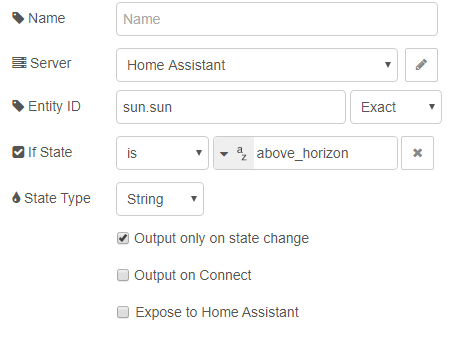
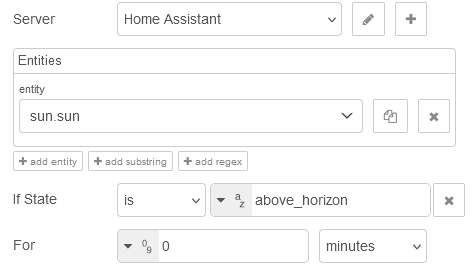
docs: Update first automation to use action node

diff --git a/docs/guide/first-automation.md b/docs/guide/first-automation.md
@@ -1,67 +1,56 @@
 # First Automation
 
-For your first automation, we'll start simple and set up an automation to turn on and off a
-light when the sun comes up and goes down.
+For your first automation, let's keep it simple by setting up a light to turn on when the sun sets and off when it rises.
 
-This example will use the state, `below_horizon`/`above_horizon`, of the `sun.sun` entity from
-Home Assistant to trigger the light.
+This example uses the `sun.sun` entity in Home Assistant, which has states `below_horizon` and `above_horizon`, to trigger the light.
 
-## Events: state
+## Events: State Node
 
-Place an Events: state node onto the workspace and double click on it to edit.
+1. Drag an **Events: state** node onto the workspace and double-click it to edit.
 
 ![screenshot](./images/first-automation_01.png)
 
-## Entity ID
+## Entity ID Configuration
 
-We'll add `sun.sun` to the **Entity ID** field and leave the entity id filter type
-to `Exact` as we only want to match one entity.
+2. In the **Entity ID** field, enter `sun.sun`. This is the entity that will trigger the automation.
 
-## If State
+## If State Condition
 
-**If State** is a conditional that will be checked against the state of the entity
-when it triggers the node. If the condition is found to be `true` the message
-will be sent out the top output and if found to be `false` it will be sent out
-the bottom output. If no conditional value is set there will only be one output
-and all messages will flow through it.
+3. The **If State** condition checks the entity's state when the node is triggered. If the condition is `true`, the message will be sent through the top output; if `false`, it will be sent through the bottom output. If no condition is set, all messages will pass through a single output.
 
-For this example we will set the **If State** to `above_horizon`.
+   For this example, set the **If State** to `above_horizon`.
 
 ![screenshot](./images/first-automation_02.png)
 
-## Call Service
+## Action Node
 
-Now that the trigger is set up it's time to set up the action. Most communication
-done with Home Assistant will come in the forms of services calls using the Call
-Service Node.
+4. Now, let's set up the actions that will be triggered. Most Home Assistant interactions are done through action calls, which we'll handle with the **Action** node.
 
-Drag two Call Service nodes onto the workspace and connect them to each of the
-outputs from the Events: state node.
+5. Drag two **Action** nodes onto the workspace and connect them to the outputs of the **Events: state** node.
 
 ![screenshot](./images/first-automation_03.png)
 
-Since we made the conditional in the Events: state node _if state is equal to
-above_horizon_ the top output will be the action to turn off the light and the bottom output will be the action to turn on the light.
+- Since we set the **If State** to `above_horizon`, the top output will turn off the light, and the bottom output will turn it on.
 
-The three fields that are relevant for this example are: Domain, Service, and
-Entity Id. **Domain** is going to be `light`, **Service** is going to be
-`turn_off`, and **Entity Id** is going to be `light.front_porch`. The Second
-Call Service node will be the same except the **Service** is going to be `turn_on`.
+6. Configure the **Action** nodes:
+   - **Action**: `light.turn_off` (for the top output) and `light.turn_on` (for the bottom output)
+   - **Entity**: `light.front_porch`
 
 ![screenshot](./images/first-automation_04.png)
 
 ## Complete Automation
 
-At this point, you can deploy and should have your first working automation in
-Node-RED.
+7. Once you've configured everything, deploy your flow. You now have your first working automation in Node-RED!
 
 ![screenshot](./images/first-automation_05.png)
 
 @[code](@examples/guides/first-automation/complete-automation.json)
 
-**Also see:**
+---
+
+**Related Resources:**
 
 - [Importing and Exporting Flows](https://nodered.org/docs/user-guide/editor/workspace/import-export)
-- [Call Service Node](/node/call-service.md)
-- [Events: state Node](/node/events-state.md)
-- [Conditionals](./conditionals.md)
+- [Call Service Node Documentation](/node/call-service.md)
+- [Events: State Node Documentation](/node/events-state.md)
+- [Conditionals in Node-RED](./conditionals.md)

diff --git a/docs/guide/mustache-templates.md b/docs/guide/mustache-templates.md
@@ -1,22 +1,19 @@
 # Mustache Templates
 
-When using templates the top level is a property of the message object:
-`msg.payload` would be <code v-pre>{{payload}}</code>.
+When using templates, the top level refers to a property of the message object. For example, `msg.payload` would be accessed as <code v-pre>{{payload}}</code>.
 
-You can access flow, global, and states contexts <code
-v-pre>{{flow.foobar}}</code> <code v-pre>{{global.something}}</code>. For the
-`states` context you can use <code v-pre>{{entity.domain.entity_id}}</code> to
-get the state or drill further down <code
-v-pre>{{entity.light.kitchen.attributes.friendly_name}}</code>.
+You can also access `flow`, `global`, and `states` contexts with the following syntax:
 
-- <code v-pre>{{entity.light.kitchen}}</code> and <code v-pre>{{entity.light.kitchen.state}}</code> are equivalent
+- `flow` context: <code v-pre>{{flow.foobar}}</code>
+- `global` context: <code v-pre>{{global.something}}</code>
+- `states` context: Use <code v-pre>{{entity.domain.entity_id}}</code> to get the state, or drill further down with <code v-pre>{{entity.light.kitchen.attributes.friendly_name}}</code>.
 
-By default, Mustache will replace certain characters with their HTML escape
-codes. To stop this happening, you can use triple braces:
-<code v-pre>{{{payload}}}</code>.
+Note:
+
+- <code v-pre>{{entity.light.kitchen}}</code> and <code v-pre>{{entity.light.kitchen.state}}</code> are equivalent.
+
+By default, Mustache will replace certain characters with their HTML escape codes. To prevent this, use triple braces: <code v-pre>{{{payload}}}</code>.
 
 ::: warning
-Mustache templates work well with strings but if you're trying to insert a JSON
-object somewhere you're better off using a JSONata expression or doing with a
-function node and passing it in as an input.
+Mustache templates are ideal for handling strings. However, if you need to insert a JSON object, consider using a JSONata expression or handling it with a function node and passing it as an input.
 :::
